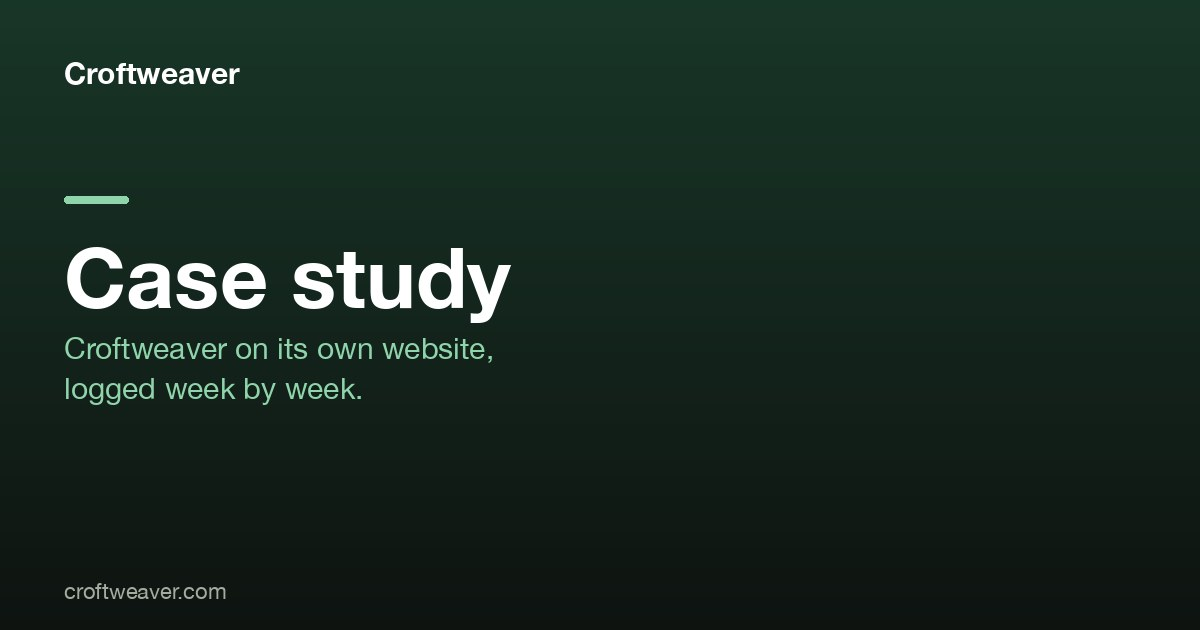
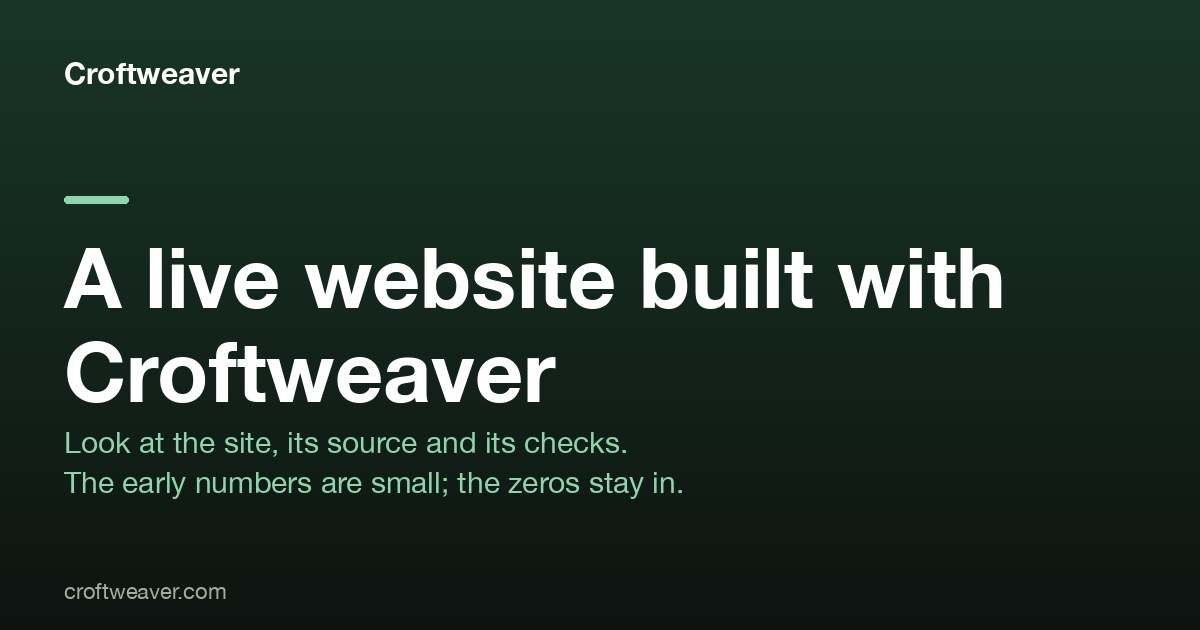
og: case-study card matches the redesigned page
The card still said "logged week by week"; the 27 October redesign
opens on the live site instead. Title and subtitles now follow its H1
and lead.

diff --git a/scripts/generate_og_cards.py b/scripts/generate_og_cards.py
@@ -68,7 +68,7 @@ DEFAULT_SUBTITLES = ["Weave websites that rank,", "on Google and in AI answers."
 PAGES: list[tuple[str, str, list[str]]] = [
     ("checks", "The test gate", ["What each suite checks,", "and what a pass does not prove."]),
     ("proof", "Built with Croftweaver", ["One site, measured:", "speed, search clicks, AI mentions."]),
-    ("case-study", "Case study", ["Croftweaver on its own website,", "logged week by week."]),
+    ("case-study", "A live website built with Croftweaver", ["Look at the site, its source and its checks.", "The early numbers are small; the zeros stay in."]),
     ("more-proof", "More proof", ["Speed and technical SEO, measured.", "Trust, as four AI assistants score it."]),
     ("skills", "Website skills", ["The catalogue, by stage:", "build, verify, launch, grow."]),
     ("start", "Quickstart", ["From nothing to your first site,", "with your AI coding assistant."]),
